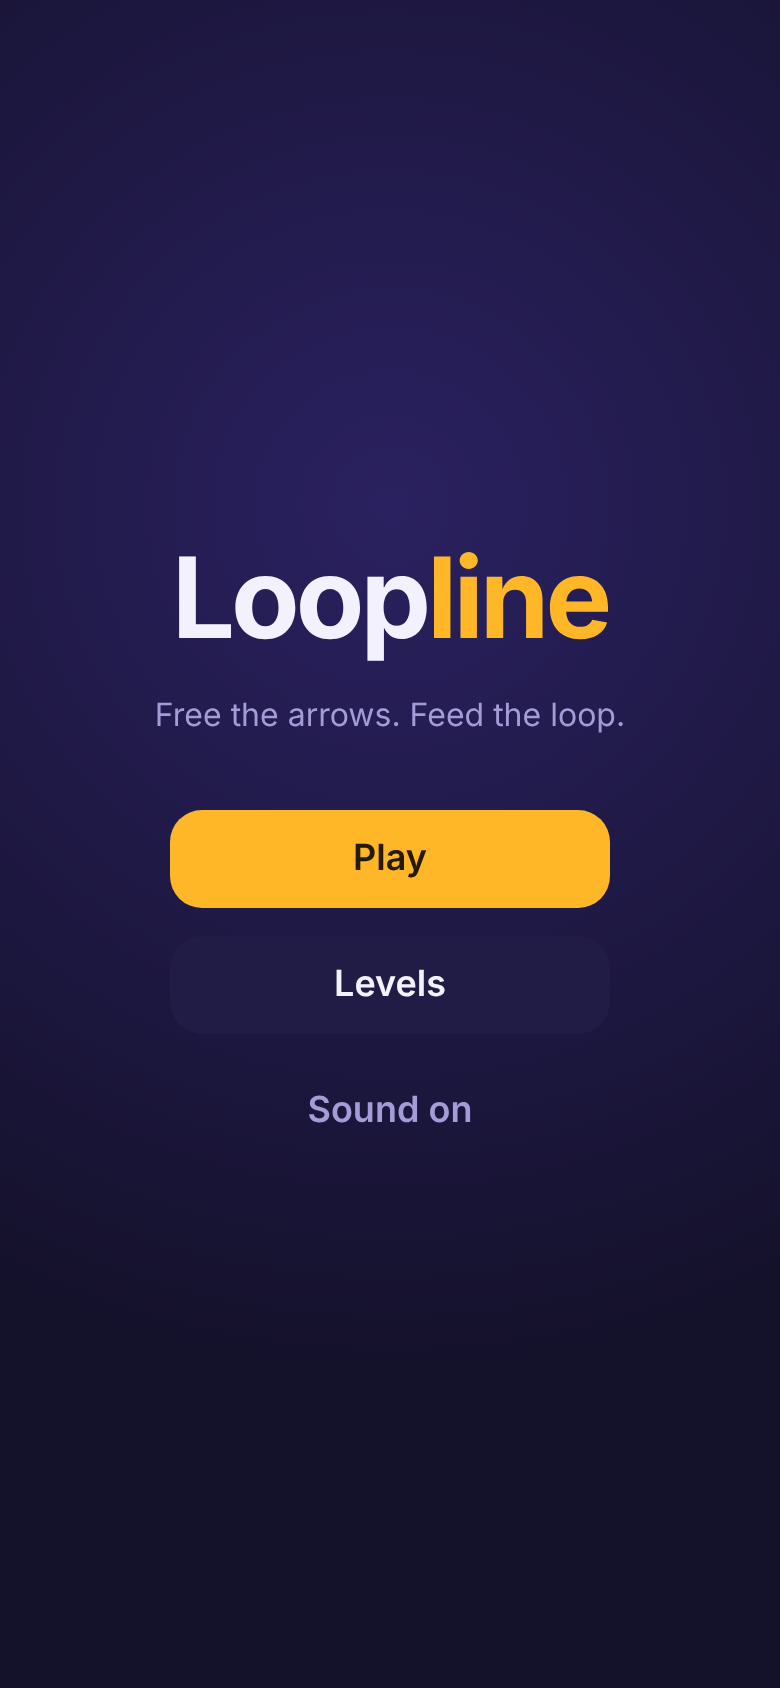
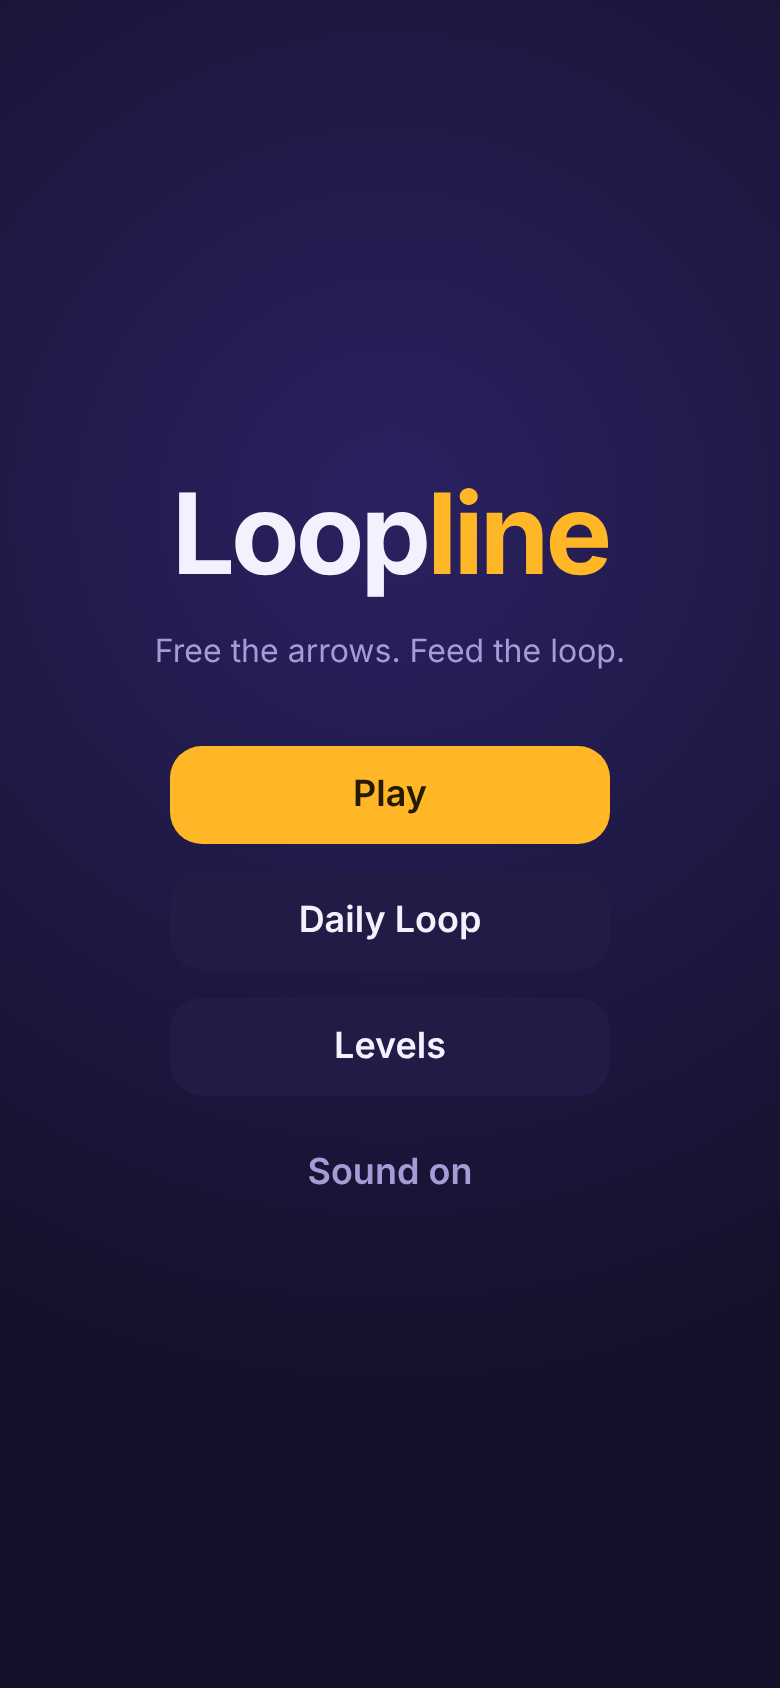
L09 Daily Loop
Claude-Session: https://claude.ai/code/session_01HnjHBJqgza3GCwRNRwt7az

Changed region(s): [[0.1846, 0.2773, 0.8, 0.7085]]

diff --git a/loopline/src/main.js b/loopline/src/main.js
@@ -1,3 +1,4 @@
+import { dailyLevel, dayKey, recordDaily, shareText } from './core/daily.js'
 import { canTap, createGame, reverse, stars, tap, undo, widen } from './core/game.js'
 import { levelFor } from './core/levels.js'
 import { createBoard } from './ui/board.js'
@@ -55,7 +56,7 @@ const quake = () => {
 }
 
 const renderHud = () => {
-  $('level-label').textContent = `Level ${level.number}`
+  $('level-label').textContent = level.day ? 'Daily Loop' : `Level ${level.number}`
   for (const kind of boosterKinds) {
     const count = progress.boosters[kind]
     $(kind).textContent = `${boosterIcons[kind]} ${count}`
@@ -64,26 +65,38 @@ const renderHud = () => {
   $('hint').textContent = level.hint ?? `Loop holds ${state.capacity}. Don't let it overflow.`
 }
 
-const start = number => {
-  level = levelFor(number)
+const begin = built => {
+  level = built
   state = createGame(level)
   effects = []
   renderBins()
   renderHud()
   show('game')
+  board.draw(state, effects, performance.now())
 }
+
+const start = number => begin(levelFor(number))
 
 const finish = () => {
   const won = state.status === 'won'
   const earned = won ? stars(state) : 0
-  if (won) progress = recordWin(progress, level.number, earned)
+  if (level.day) {
+    const result = { won, moves: state.moves, stars: earned }
+    progress = saveProgress({ ...progress, daily: recordDaily(progress.daily, level.day, result) })
+  } else if (won) progress = recordWin(progress, level.number, earned)
   feedback[won ? 'win' : 'lose']()
   if (!won) quake()
   setTimeout(() => {
     $('result-title').textContent = won ? 'Loop cleared!' : 'Loop overflowed'
     $('result-stars').textContent = won ? '★'.repeat(earned) + '☆'.repeat(3 - earned) : ''
-    $('result-next').textContent = won ? 'Next level' : 'Try again'
-    $('result-next').onclick = () => start(won ? level.number + 1 : level.number)
+    $('result-next').textContent = won ? (level.day ? 'Done' : 'Next level') : 'Try again'
+    $('result-next').onclick = () => {
+      if (!won) begin(level)
+      else if (level.day) showTitle()
+      else start(level.number + 1)
+    }
+    $('result-share').hidden = !level.day
+    $('result-share').textContent = 'Share'
     show('result')
   }, 450)
 }
@@ -132,15 +145,34 @@ const renderSound = () => {
   $('sound').textContent = progress.muted ? 'Sound off' : 'Sound on'
 }
 
+const showTitle = () => {
+  const { streak } = progress.daily
+  $('daily').textContent = streak ? `Daily Loop 🔥${streak}` : 'Daily Loop'
+  show('title')
+}
+
+const share = async () => {
+  const text = shareText(level, progress.daily)
+  try {
+    if (navigator.share) await navigator.share({ text })
+    else {
+      await navigator.clipboard.writeText(text)
+      $('result-share').textContent = 'Copied'
+    }
+  } catch {}
+}
+
+$('result-share').onclick = share
+$('daily').onclick = () => begin(dailyLevel(dayKey(new Date())))
 $('play').onclick = () => start(progress.unlocked)
 $('choose').onclick = () => {
   renderLevels()
   show('levels')
 }
-$('back').onclick = () => show('title')
-$('home').onclick = () => show('title')
-$('result-menu').onclick = () => show('title')
-$('restart').onclick = () => start(level.number)
+$('back').onclick = showTitle
+$('home').onclick = showTitle
+$('result-menu').onclick = showTitle
+$('restart').onclick = () => begin(level)
 for (const kind of boosterKinds) {
   $(kind).onclick = () => {
     if (!progress.boosters[kind] || state.status !== 'playing') return
@@ -164,6 +196,7 @@ const frame = time => {
 }
 
 renderSound()
+showTitle()
 requestAnimationFrame(frame)
 
 window.loopline = {

diff --git a/loopline/test/daily.test.js b/loopline/test/daily.test.js
@@ -1,0 +1,34 @@
+import assert from 'node:assert/strict'
+import { test } from 'node:test'
+import { dailyLevel, dayKey, recordDaily, shareText } from '../src/core/daily.js'
+import { createGame, tap } from '../src/core/game.js'
+
+const key = '2026-10-31'
+
+test('the same date always builds the same solvable daily level', () => {
+  const level = dailyLevel(dayKey(new Date('2026-10-31T23:59:00Z')))
+  assert.deepEqual(level.tiles, dailyLevel(key).tiles)
+  assert.notDeepEqual(level.tiles, dailyLevel('2026-11-01').tiles)
+  const end = level.solution.reduce((game, [x, y]) => tap(game, x, y), createGame(level))
+  assert.equal(end.status, 'won')
+})
+
+test('only the first attempt of a day is recorded and wins in a row build a streak', () => {
+  const first = recordDaily({ streak: 0 }, '2026-10-30', { won: true, moves: 30, stars: 2 })
+  const second = recordDaily(first, key, { won: true, moves: 30, stars: 3 })
+  assert.equal(second.streak, 2)
+  assert.equal(recordDaily(second, key, { won: false, moves: 9, stars: 0 }), second)
+  assert.equal(recordDaily(second, '2026-11-02', { won: true, moves: 30, stars: 3 }).streak, 1)
+  assert.equal(recordDaily(second, '2026-11-01', { won: false, moves: 9, stars: 0 }).streak, 0)
+})
+
+test('share text shows the date, a ring of the day colors, moves, stars and streak', () => {
+  const level = dailyLevel(key)
+  const daily = recordDaily({ streak: 0 }, key, { won: true, moves: 30, stars: 2 })
+  const lines = shareText(level, daily).split('\n')
+  assert.equal(lines.length, 6)
+  assert.equal(lines[0], `Loopline Daily ${key}`)
+  assert.match(lines[2], /^[🟥🟨🟩🟦🟪🟧]✅[🟥🟨🟩🟦🟪🟧]$/u)
+  assert.equal(lines[4], '30 moves ⭐⭐☆')
+  assert.equal(lines[5], '🔥 1')
+})

diff --git a/loopline/src/core/daily.js b/loopline/src/core/daily.js
@@ -1,0 +1,37 @@
+import { levelFrom, palette, paramsFor } from './levels.js'
+
+const squares = ['🟥', '🟨', '🟩', '🟦', '🟪', '🟧']
+const ring = [0, 1, 2, 5, 8, 7, 6, 3]
+const day = 86400000
+
+export const dayKey = date => date.toISOString().slice(0, 10)
+
+const seedOf = key => [...key].reduce((hash, c) => Math.imul(hash ^ c.charCodeAt(0), 16777619) >>> 0, 2166136261)
+
+export const dailyLevel = key => ({
+  ...levelFrom(paramsFor(20), seedOf(key)),
+  number: 'daily',
+  day: key,
+  hint: 'Same loop for everyone today. One attempt counts.',
+})
+
+export const recordDaily = (daily, key, result) => {
+  if (daily.last?.day === key) return daily
+  const yesterday = dayKey(new Date(Date.parse(key) - day))
+  const kept = daily.last?.day === yesterday && daily.last.won ? daily.streak : 0
+  return { streak: result.won ? kept + 1 : 0, last: { day: key, ...result } }
+}
+
+export const shareText = (level, daily) => {
+  const { day: key, won, moves, stars } = daily.last
+  const cells = Array.from({ length: 9 }, () => (won ? '✅' : '❌'))
+  for (const [i, cell] of ring.entries()) cells[cell] = squares[palette.indexOf(level.queue[i % level.queue.length])]
+  return [
+    `Loopline Daily ${key}`,
+    cells.slice(0, 3).join(''),
+    cells.slice(3, 6).join(''),
+    cells.slice(6).join(''),
+    `${moves} moves ${'⭐'.repeat(stars)}${'☆'.repeat(3 - stars)}`,
+    `🔥 ${daily.streak}`,
+  ].join('\n')
+}

diff --git a/loopline/e2e/play.js b/loopline/e2e/play.js
@@ -51,8 +51,20 @@ try {
   await page.click('#sound')
   await page.reload()
   assert.equal(await page.textContent('#sound'), 'Sound off')
+  await page.evaluate(() => {
+    navigator.share = ({ text }) => {
+      window.shared = text
+      return Promise.resolve()
+    }
+  })
+  await page.click('#daily')
+  await playLevel('daily', false)
+  await page.click('#result-share')
+  assert.match(await page.evaluate(() => window.shared), /^Loopline Daily \d{4}-\d{2}-\d{2}\n/)
+  await page.click('#result-next')
+  assert.equal(await page.textContent('#daily'), 'Daily Loop 🔥1')
   assert.deepEqual(errors, [])
-  console.log('e2e passed: levels 1-4 won by touch, progress and mute kept after reload')
+  console.log('e2e passed: levels 1-4 won by touch, progress and mute kept after reload, daily shared')
 } finally {
   await browser.close()
   server.kill()

diff --git a/loopline/index.html b/loopline/index.html
@@ -29,6 +29,7 @@
       <h1 class="logo">Loop<span>line</span></h1>
       <p class="tagline">Free the arrows. Feed the loop.</p>
       <button type="button" id="play" class="primary">Play</button>
+      <button type="button" id="daily" class="secondary">Daily Loop</button>
       <button type="button" id="choose" class="secondary">Levels</button>
       <button type="button" id="sound" class="ghost">Sound on</button>
     </section>
@@ -43,6 +44,7 @@
       <h2 id="result-title">Result</h2>
       <p id="result-stars" class="stars"></p>
       <button type="button" id="result-next" class="primary"></button>
+      <button type="button" id="result-share" class="secondary" hidden>Share</button>
       <button type="button" id="result-menu" class="ghost">Menu</button>
     </section>
 

diff --git a/loopline/src/core/levels.js b/loopline/src/core/levels.js
@@ -132,11 +132,15 @@ export const generate = (params, seed) => {
   return null
 }
 
+export const levelFrom = (params, seed) => {
+  for (let offset = 0; ; offset++) {
+    const level = generate(params, seed + offset)
+    if (level) return level
+  }
+}
+
 export const levelFor = number => {
   const tutorial = tutorials[number]
   if (tutorial) return { ...tutorial, number, solution: solve(createGame(tutorial)) }
-  for (let offset = 0; ; offset++) {
-    const level = generate(paramsFor(number), number * 7919 + offset)
-    if (level) return { ...level, number, hint: hints[number] }
-  }
+  return { ...levelFrom(paramsFor(number), number * 7919), number, hint: hints[number] }
 }

diff --git a/loopline/src/ui/progress.js b/loopline/src/ui/progress.js
@@ -1,7 +1,13 @@
 const key = 'loopline.progress'
 export const boosterKinds = ['undo', 'widen', 'reverse']
 
-const empty = { unlocked: 1, stars: {}, muted: false, boosters: { undo: 3, widen: 1, reverse: 1 } }
+const empty = {
+  unlocked: 1,
+  stars: {},
+  muted: false,
+  boosters: { undo: 3, widen: 1, reverse: 1 },
+  daily: { streak: 0 },
+}
 
 const totalStars = stars => Object.values(stars).reduce((sum, n) => sum + n, 0)
 

diff --git a/loopline/BACKLOG.md b/loopline/BACKLOG.md
@@ -4,10 +4,6 @@ The build agent takes items from the top of **Next**, one commit each. Scheduled
 
 ## Next
 
-### L09 Daily Loop
-
-Seed from the UTC date, one attempt record per day, streak, share text built from emoji (moves, stars, a small ring glyph) through `navigator.share` with clipboard fallback. Done when two runs on the same date produce the same level and share text format is tested.
-
 ### L10 PWA
 
 Manifest, SVG icon, service worker caching the app shell, offline play. Done when the page loads offline after the first visit (Playwright check).
@@ -28,6 +24,7 @@ Manifest, SVG icon, service worker caching the app shell, offline play. Done whe
 - Locked tiles open after a count of moves (badge on the tile) rather than by a neighbour or key; generator caps each lock at the tile's position in its proven order so solvability holds
 - The solver's optimum (lowest loop peak) is 0 on most generated levels, so three stars are easy; a tighter bin order is a candidate difficulty knob
 - Reverse belt has no effect while bins pull instantly, so the booster reverses the order of the colors still queued for the bins; an extra slot survives undo and does not lower the stars bar; each new star earns one booster in turn (undo, slot, reverse), start stock 3/1/1
+- Daily Loop uses level 20 parameters, records only the first attempt of each UTC day, keeps the streak only on consecutive wins, and can be replayed without being recorded again
 
 ## Done
 
@@ -39,6 +36,7 @@ Manifest, SVG icon, service worker caching the app shell, offline play. Done whe
 - L06 Difficulty curve and tutorial (2026-10-31)
 - L07 Juice (2026-10-31)
 - L08 Boosters (2026-10-31)
+- L09 Daily Loop (2026-10-31)
 
 MVP rule: every commit keeps `npm test`, `npm run check` and `npm run e2e` green; a run that breaks e2e reverts its own change.
 

diff --git a/loopline/MEMORY.md b/loopline/MEMORY.md
@@ -10,6 +10,8 @@ Rewritten by each run; keep it short.
 - `window.loopline` exposes `level`, `status` and `pointFor` for `e2e/play.js`; keep it working
 - Feedback events `tap`, `slide`, `blocked`, `clear`, `win`, `lose` in `src/ui/feedback.js`, guarded for Node; sparks and quake are CSS in `main.js`, off under reduced motion
 - Boosters: rules `undo`, `widen`, `reverse` in `game.js`; stock in `progress.boosters` (`recordWin`, `spendBooster`); buttons below the board share ids with the kinds
+- Daily: `src/core/daily.js` (seed from UTC date key, `recordDaily`, `shareText`); daily levels carry `day` and `number: 'daily'`, so use `begin(level)` not `start(number)` to replay
+- `begin` draws the board at once: the e2e taps right after a level starts and the cell size changes with board size
 - Cloud runs: Node 22 works; Chromium at `/opt/pw-browsers/chromium-1243/chrome-linux64/chrome` (override with `CHROMIUM`); `playwright-core` only, no browser download
 - Biome also formats Markdown; run `npm run fix` before committing
 - Fetch `poc` with `git fetch origin +refs/heads/poc:refs/remotes/origin/poc` before `git checkout -B poc origin/poc`
